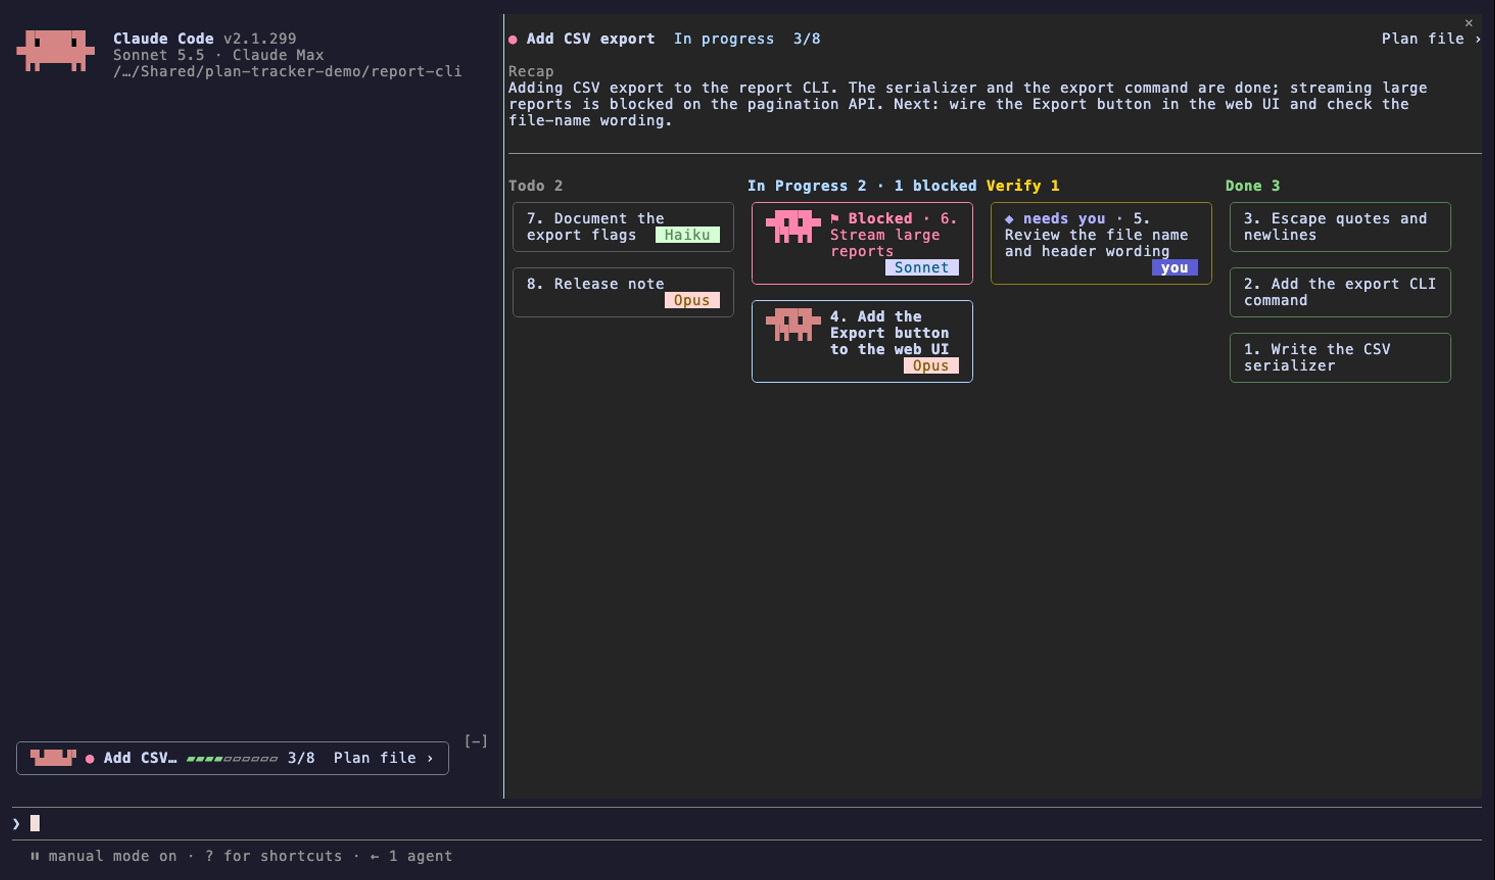
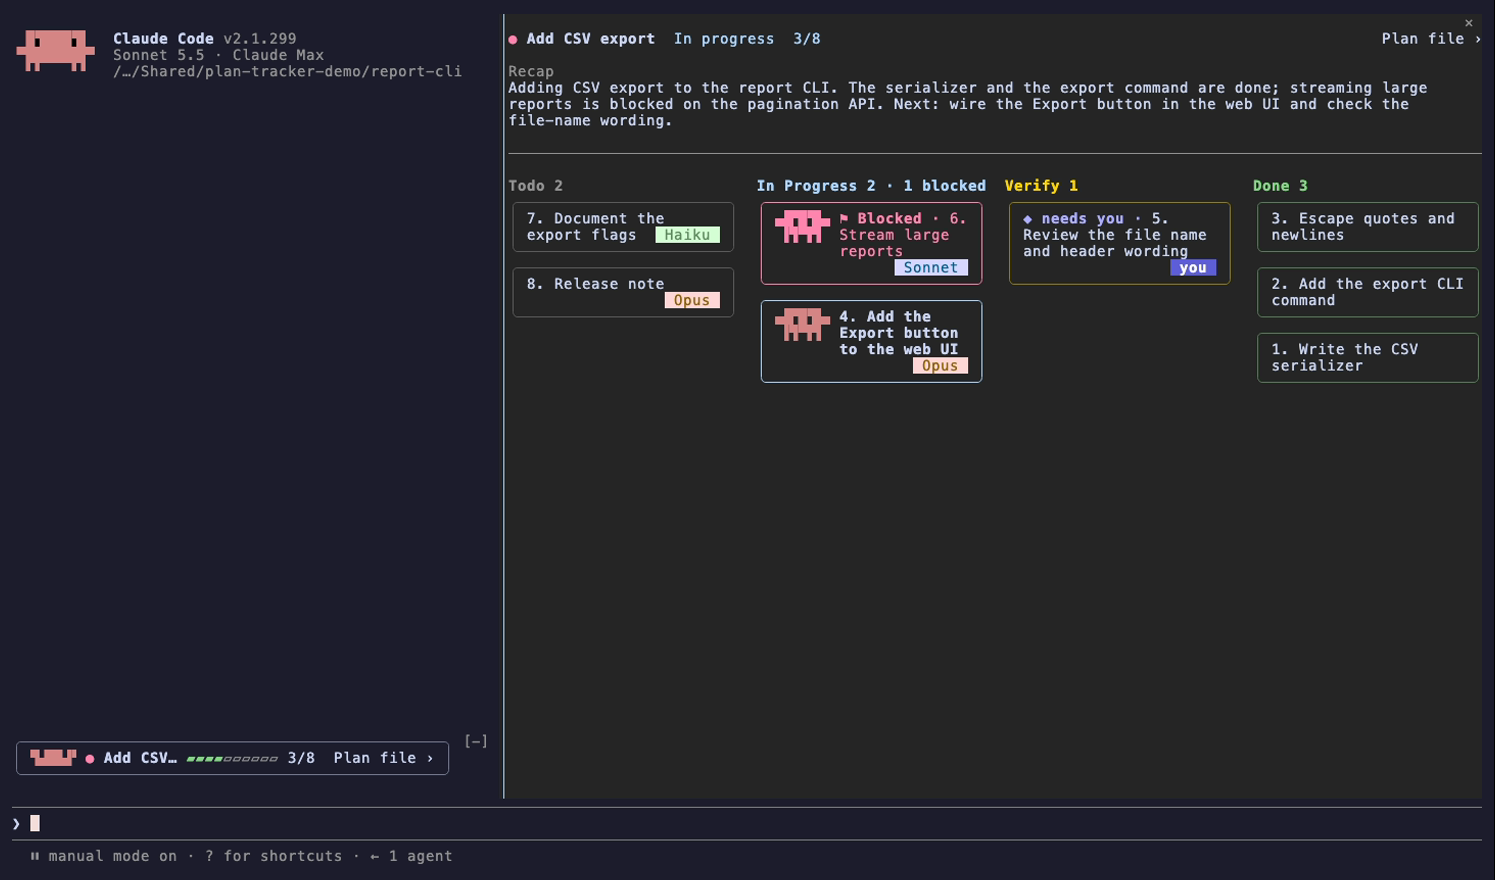
0.7.1: two columns between lanes side by side
A lane title that fills its lane ("In Progress 2 · 1 blocked") ran into the
next lane's title with one space between them. Lanes are now two columns
apart; docs/board.png re-shot on 0.7.1.

Changed region(s): [[0.4923, 0.1841, 0.9846, 0.4295], [0.4923, 0.3375, 0.6769, 0.4295]]

diff --git a/tests/pane.test.ts b/tests/pane.test.ts
@@ -380,6 +380,17 @@ describe('plan-tracker pane: the lanes', () => {
     })
   }
 
+  test('side by side, lanes are two columns apart, so a title that fills its lane does not run into the next one', async ($, on) => {
+    world(on)
+    await $.session.start(SESSION)
+
+    const pane = await mountPane($, 'terminal', 110)
+
+    expect((await pane.find({ key: 'kanban' }))?.props.gap).toBe(2)
+    for (let columns = 100; columns <= 200; columns++) expect(laneWidth(columns) * 4 + 3 * 2).toBeLessThanOrEqual(columns)
+    await pane.unmount()
+  })
+
   test('100 columns and up lay the lanes side by side at a quarter of the width; under 100 they stack', async ($, on) => {
     world(on)
     await $.session.start(SESSION)
@@ -388,7 +399,7 @@ describe('plan-tracker pane: the lanes', () => {
 
     expect((await wide.find({ key: 'kanban' }))?.props.flexDirection).toBe('row')
     expect((await cardsOf(wide, 'Todo'))[0]?.props.width).toBe(laneWidth(140))
-    expect(laneWidth(140)).toBe(34)
+    expect(laneWidth(140)).toBe(33)
     await wide.unmount()
 
     const stacked = await mountPane($, 'terminal', 96)

diff --git a/hooks/board.ts b/hooks/board.ts
@@ -730,8 +730,11 @@ export function lanesOf(plan: PlanEntry, expanded: readonly LaneKey[] = []): Lan
 /** The pane lays the lanes side by side from this width, stacked below it. */
 export const SIDE_BY_SIDE_FROM = 100
 
-/** Columns one lane gets side by side: four lanes and three one-column gaps. */
-export const laneWidth = (bodyColumns: number, count = 4) => Math.floor((bodyColumns - (count - 1)) / count)
+/** Columns between two lanes side by side: two, so a title that fills its lane does not read as one phrase with the next. */
+export const LANE_GAP = 2
+
+/** Columns one lane gets side by side: four lanes and the gaps between them. */
+export const laneWidth = (bodyColumns: number, count = 4) => Math.floor((bodyColumns - (count - 1) * LANE_GAP) / count)
 
 /** A card is a Box with a round border and one column of padding on each side: four columns in all. */
 export const BORDER_COLUMNS = 4

diff --git a/tests/stalled.test.ts b/tests/stalled.test.ts
@@ -199,11 +199,11 @@ describe('stalled_since: on screen', () => {
   })
 
   for (const surface of ['terminal', 'desktop'] as const) {
-    test(`${surface}: in a 105-column pane (cards 25 wide) a stalled card keeps a tag: the bare \`stalled\` where the time does not fit`, async ($, on) => {
+    test(`${surface}: in a 108-column pane (cards 25 wide) a stalled card keeps a tag: the bare \`stalled\` where the time does not fit`, async ($, on) => {
       world(on, { fixture: stalledBoard('Build') })
       await $.session.start(SESSION)
 
-      const narrow = await mountPane($, surface, 105)
+      const narrow = await mountPane($, surface, 108)
 
       expect(textOf((await cardRowsIn(narrow, BUILD)).at(-1))).toEndWith(' stalled ')
       expect(textOf((await cardRowsIn(narrow, BUILD)).at(-1))).not.toContain('14:02')

diff --git a/tests/since.test.ts b/tests/since.test.ts
@@ -149,7 +149,7 @@ describe('the longer state word and tag take their room', () => {
     expect(cardView(stalledRow('2026-10-12 14:02'), 28, NOW).tag).toBe('stalled')
   })
 
-  test('a card 25 columns wide (four lanes in a 105-column pane) has the bare tag, today or another day, on the line below its title', () => {
+  test('a card 25 columns wide (four lanes in a 108-column pane) has the bare tag, today or another day, on the line below its title', () => {
     for (const at of [STALLED, localTime(3, 14, 2)]) {
       const view = cardView(stalledRow(at), 25, NOW)
 

diff --git a/hooks/draw.tsx b/hooks/draw.tsx
@@ -56,6 +56,7 @@ import {
   isYou,
   isRunning,
   isStalled,
+  LANE_GAP,
   laneWidth,
   lanesOf,
   SHOW_LESS,
@@ -785,7 +786,7 @@ export function drawPane(kit: Kit, args: PaneArgs): RenderElement {
         </Box>
       ) : null}
       {row === undefined ? (
-        <Box key="kanban" flexDirection={isSideBySide ? 'row' : 'column'} gap={1} marginTop={1}>
+        <Box key="kanban" flexDirection={isSideBySide ? 'row' : 'column'} gap={isSideBySide ? LANE_GAP : 1} marginTop={1}>
           {lanesOf(plan, expanded).map(lane)}
         </Box>
       ) : (
